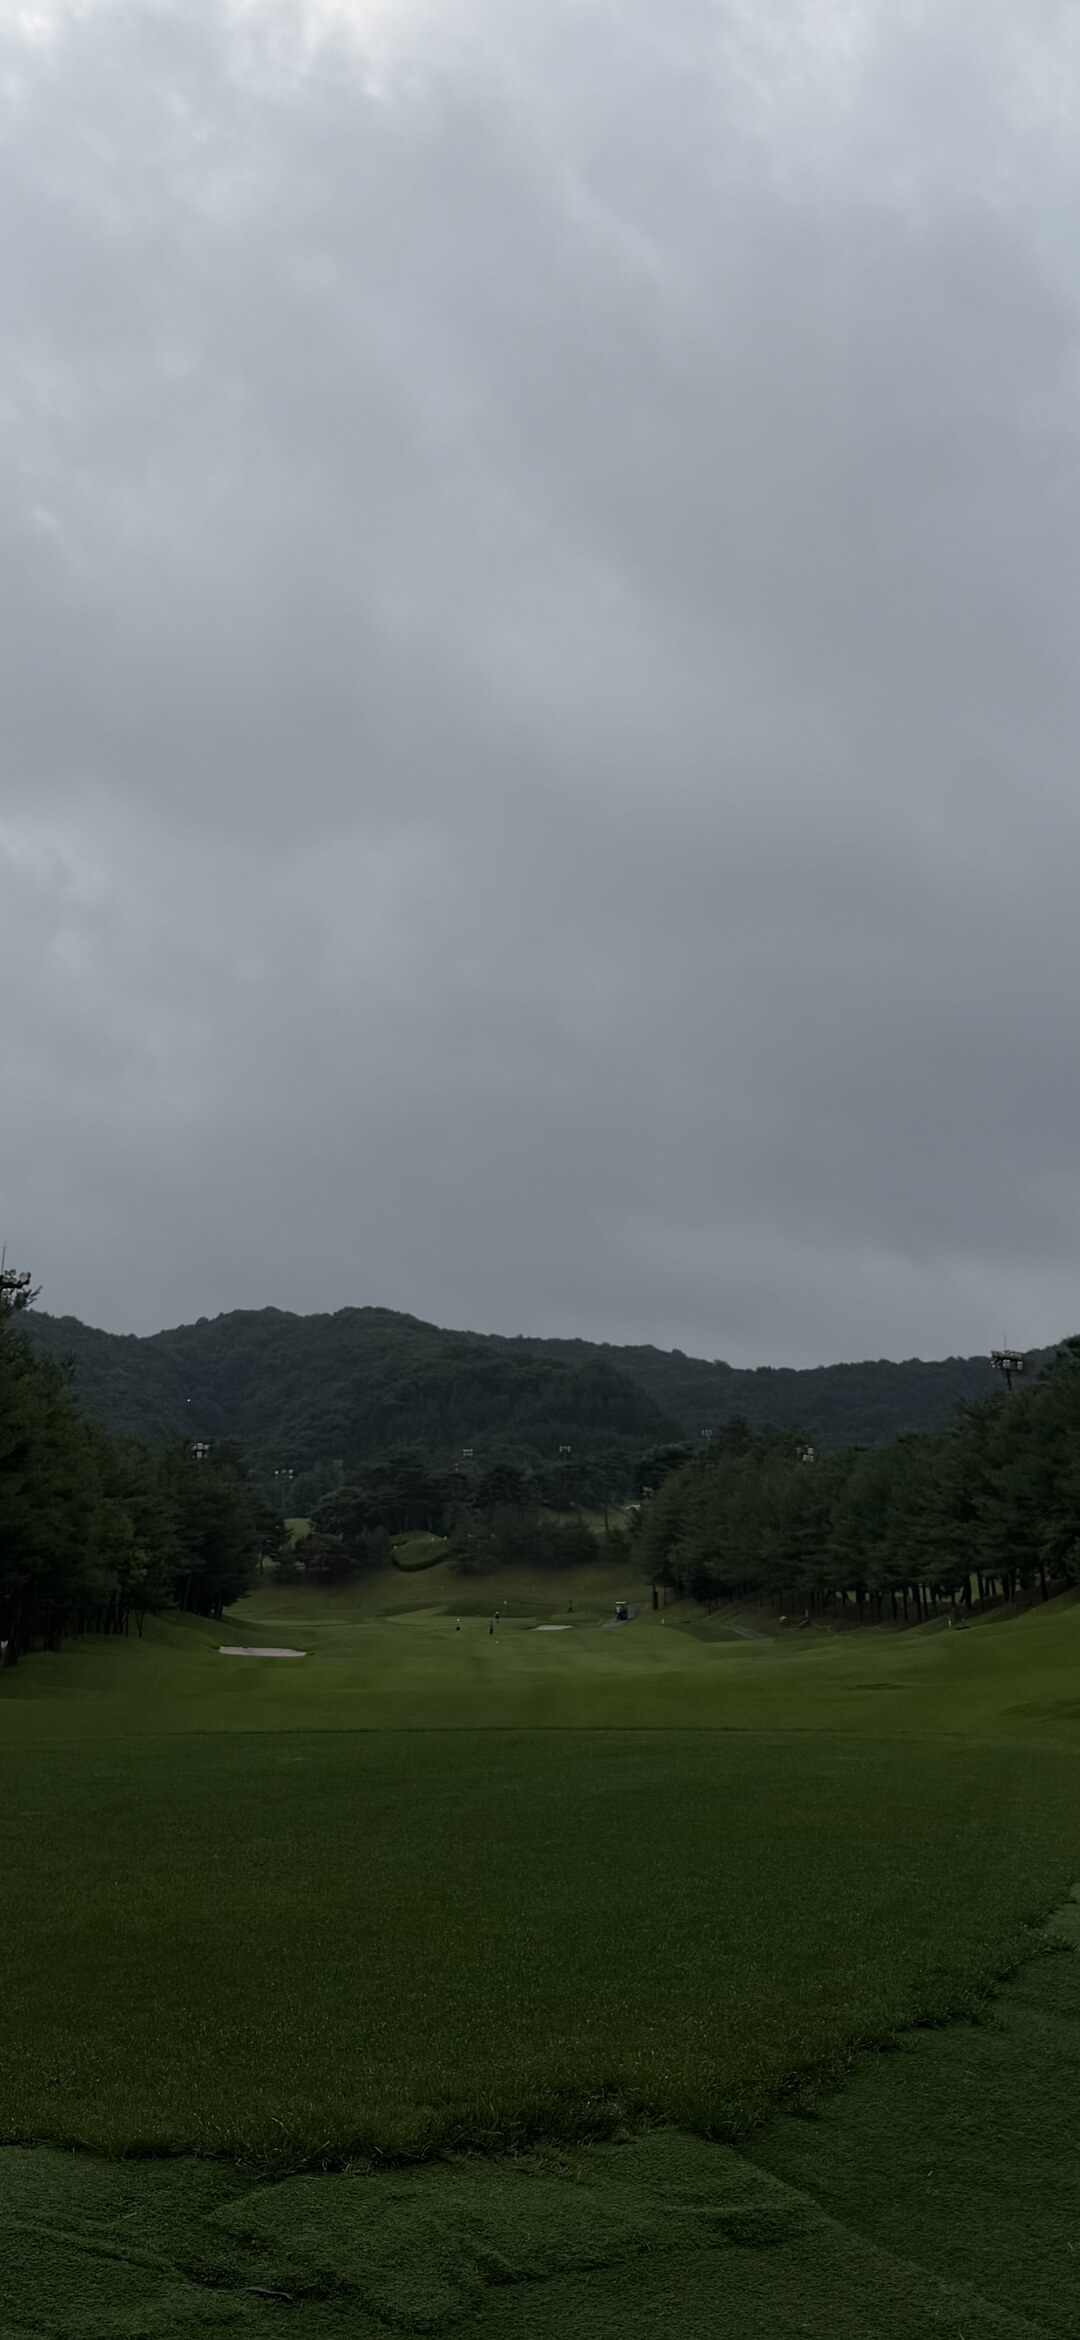
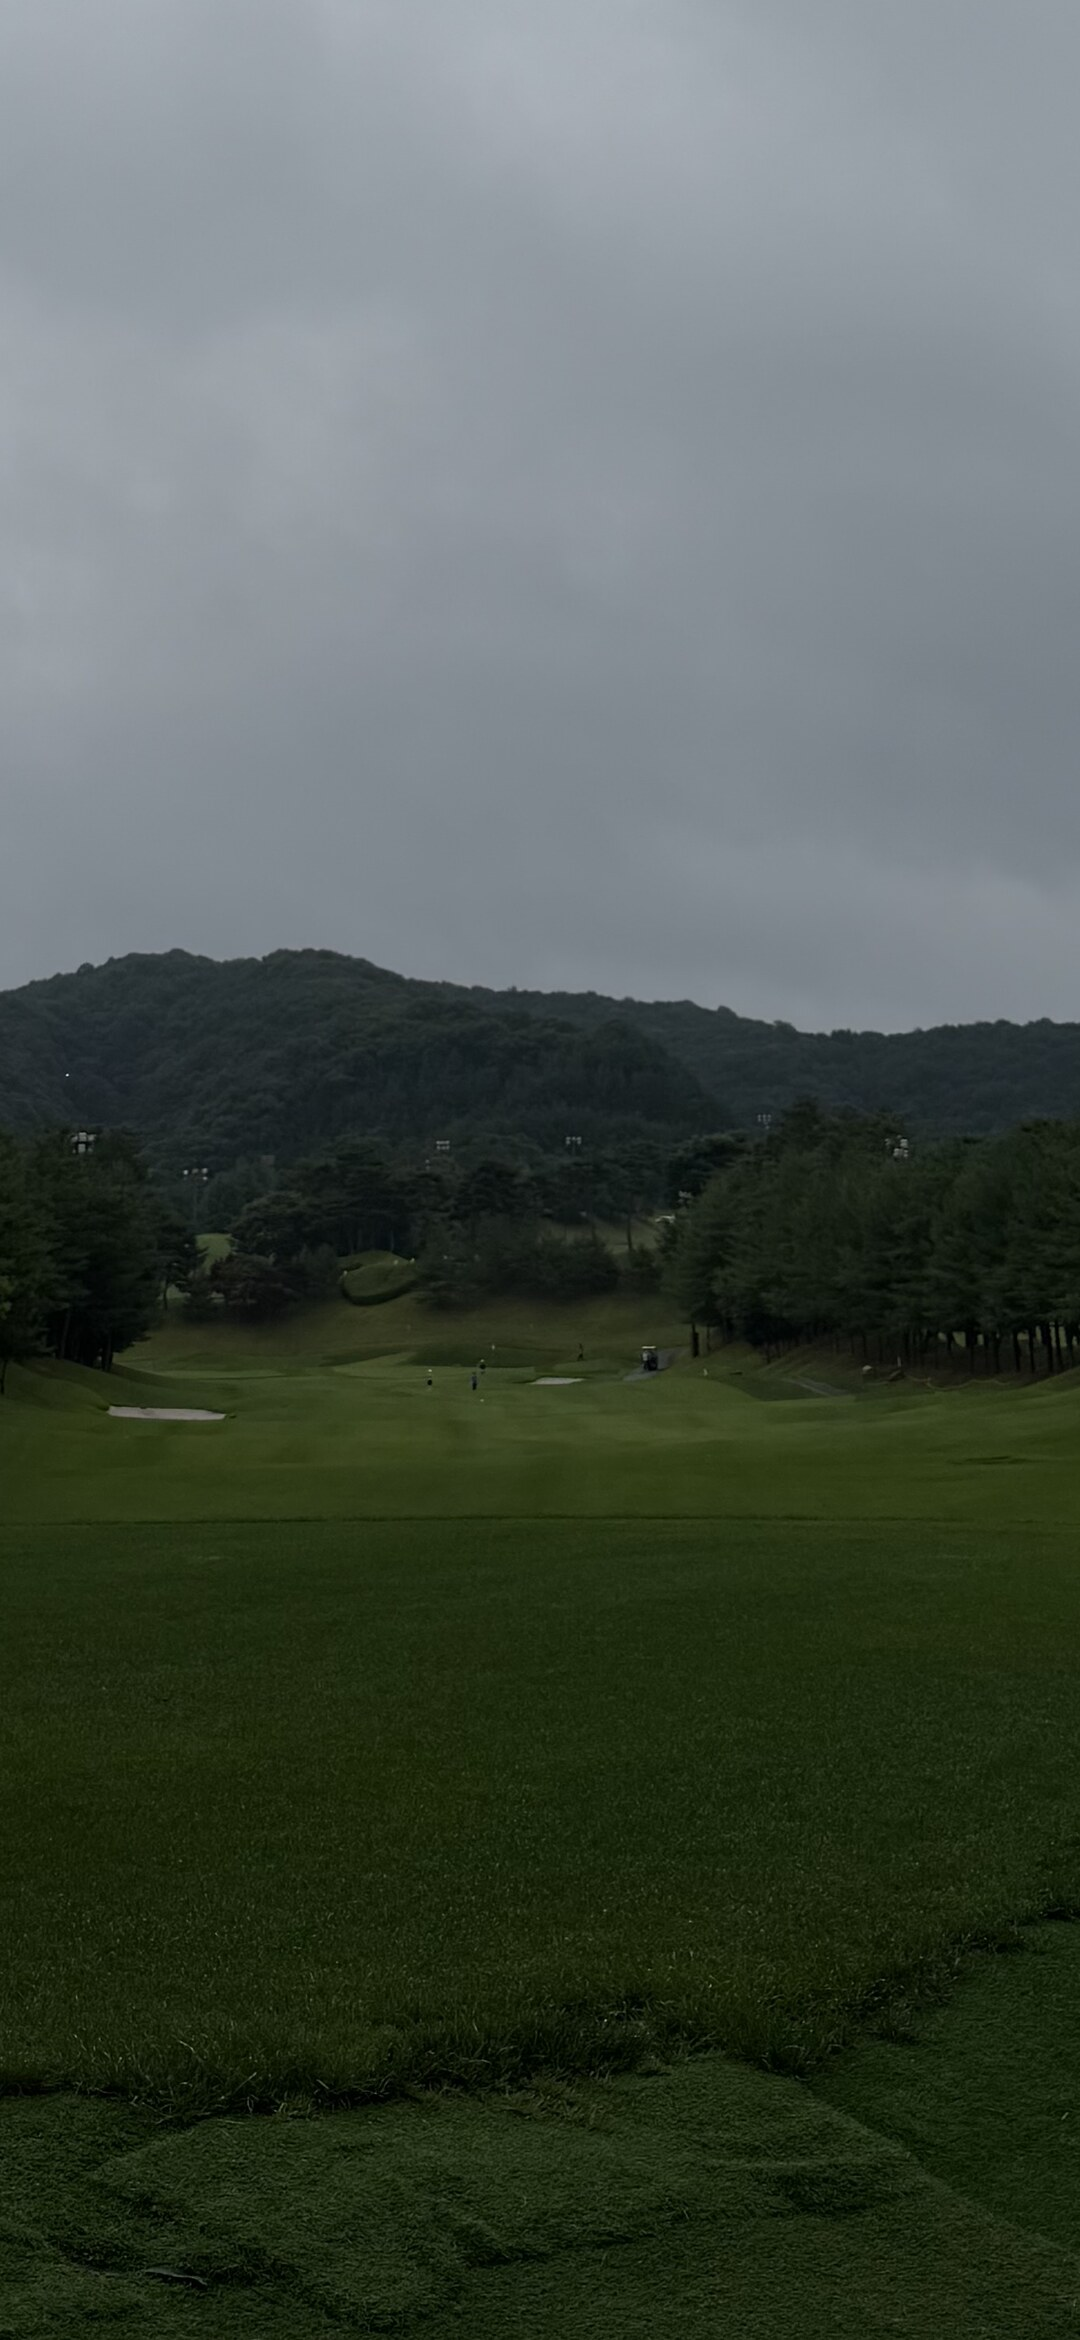
fix(home): 비 배경이 여전히 '하늘구름만' 보이던 것 — 오버레이 가시 구간(34~60%)에 코스 배치
테스터: 배경을 고쳤는데도 하늘만 보인다. dev 로그로 확인한 결과 사진 선택은 정상이었고
(rain-night -> rainNight.jpg) 새 에셋도 정상 반영 중이었다. 즉 캐시도, 사진 선택 버그도 아니었다.

진짜 원인은 OVERLAYS 그라데이션이다. locations=[0,.34,.6,1]에 rain 알파는 .86/.48/.52/.82 —
사진이 실제로 보이는 구간은 화면 34~60%뿐이고 상·하단은 글씨 가독을 위해 짙게 덮인다.
그런데 사진들은 하늘이 상반부 55%를 차지해, 잘 보이는 구간에 하늘만 걸리고 코스는
하단 0.82 오버레이에 묻혔다. 앞 커밋의 '하늘 25~30% 컷'으로는 부족했던 것.

오버레이는 그대로 두고(다른 날씨에 영향 없음) 사진에서 하늘을 더 덜어냈다:
  - rainNight: 하늘 52% 컷 — 산·조명·페어웨이가 중앙에 온다. 카톡 압축본이라 확대 3.48배지만
    밤 사진이라 흐림이 드러나지 않음(합성 렌더로 확인)
  - rainDay1: 48% 컷 / rainDay4: 46% 컷 — 고해상 원본이라 여전히 다운스케일(0.76~0.79x)
  - rainDay3(빗방울 유리창): 하늘이 없어 그대로

앞으로 배경 사진을 고를 때의 철칙을 코드 주석에 남겼다 — 코스가 화면 34~60%에 오도록
하늘을 45~52%까지 과감히 덜 것.

diff --git a/src/components/common/HomeBgSlider.js b/src/components/common/HomeBgSlider.js
@@ -57,8 +57,13 @@ const CLOUDY_IMAGES = [
 //     사용자 큐레이션 사진으로 교체(오버레이도 아래 rain 톤에서 대폭 완화).
 //   ★2026-07-09 비 전용 사진 신설(고해상 원본 → 세로 1080×2340, 확대 1.0).
 //     예전엔 흐림 사진(overcast1 등)을 빌려 썼는데 하늘이 70%라 '하늘구름만' 보였음(테스터).
-//     하늘을 28~30% 덜어 코스를 살렸다. rainDay3은 빗방울 맺힌 유리창 너머 카트길 — 비 감성 전용.
+//     rainDay3은 빗방울 맺힌 유리창 너머 카트길 — 비 감성 전용.
 //     (먹구름·산 사진 한 장은 '비 같지 않다'는 판단으로 제외 — 흐림에 가까웠음)
+//
+//   ★배경 사진 고를 때의 철칙 — 아래 OVERLAYS는 상단 0.86 / 34~60% 0.48 / 하단 0.82로 덮는다.
+//     즉 사진이 실제로 보이는 구간은 화면 34~60%뿐이다. 코스(피사체)가 그 구간에 오도록
+//     하늘을 45~52%까지 과감히 덜어내야 한다. 하늘이 상반부를 차지하면 아무리 예쁜 사진도
+//     '하늘구름만' 보인다(2026-07-09 테스터). 하늘 30% 컷으로는 부족했다.
 const RAIN_IMAGES = {
   day: [ // 낮·아침·늦오후 비
     require('../../../assets/home-bg/rainDay1.jpg'), // 비 — 젖은 페어웨이·소나무·카트길
